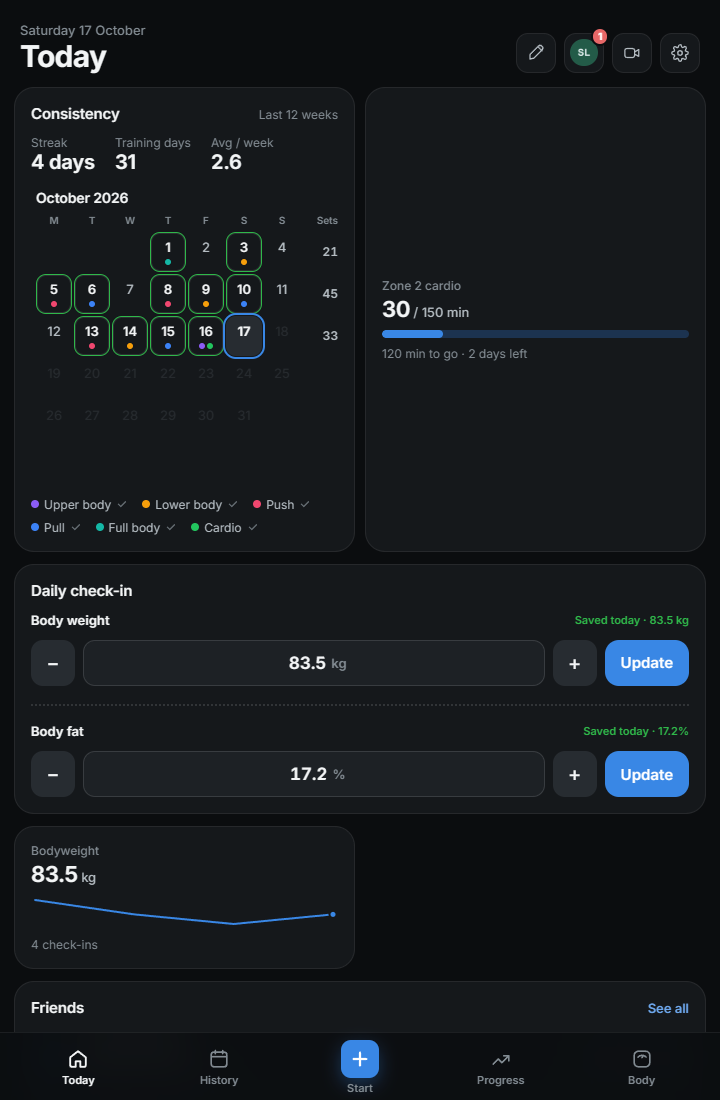
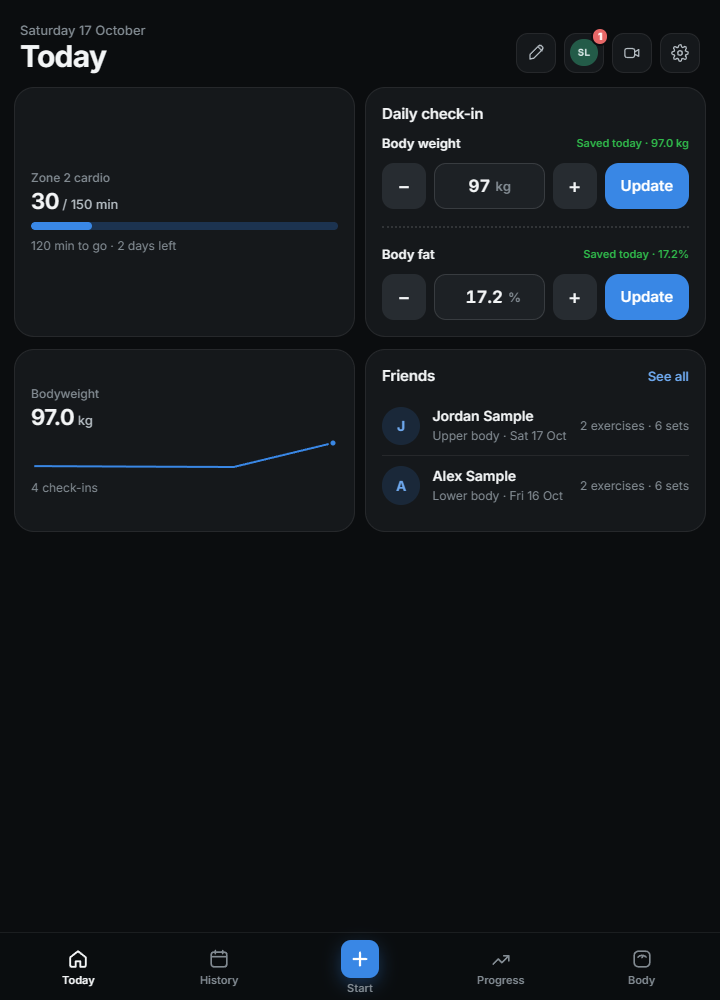
Shrink expanded Home sections when dropped into smaller spaces

diff --git a/frontend/src/HomeLayoutSections.drag.test.tsx b/frontend/src/HomeLayoutSections.drag.test.tsx
@@ -12,10 +12,10 @@ const changed = vi.fn();
 const initial: HomeLayout = {
   order: ['consistency', 'friends', 'zone2', 'bodyweight-trend'],
   hidden: [],
-  widths: { consistency: 'compact' },
+  widths: { consistency: 'compact', friends: 'full' },
 };
-function Harness() {
-  const [layout, setLayout] = useState(initial);
+function Harness({ initialLayout = initial }: { initialLayout?: HomeLayout }) {
+  const [layout, setLayout] = useState(initialLayout);
   return (
     <HomeLayoutSections
       layout={layout}
@@ -82,23 +82,51 @@ describe('Home empty-space dragging', () => {
     expect(changed.mock.lastCall![0]).toEqual({
       ...initial,
       order: ['consistency', 'zone2', 'friends', 'bodyweight-trend'],
-      widths: { consistency: 'compact', zone2: 'compact' },
+      widths: { ...initial.widths, zone2: 'compact' },
     });
     expect(container.querySelector('[data-home-drop-after="consistency"]')).toBeNull();
     expect(
       container.querySelector('[data-home-section="zone2"]')!.getAttribute('data-home-span'),
     ).toBe('3');
   });
-  it('does not offer a half-row to a full-width card', async () => {
+  it('shrinks an explicitly expanded card when dropped into a half-row', async () => {
     const handle = await begin('friends');
     pointTarget = container.querySelector('[data-home-drop-after="consistency"]');
+    await pointer(handle, 'pointermove');
+    expect(pointTarget!.classList.contains('is-drop-target')).toBe(true);
+    await pointer(handle, 'pointerup');
+    expect(changed.mock.lastCall![0]).toEqual({
+      ...initial,
+      widths: { consistency: 'compact', friends: 'compact' },
+    });
+    expect(
+      container.querySelector('[data-home-section="friends"]')!.getAttribute('data-home-span'),
+    ).toBe('3');
+    expect(container.querySelector('[data-home-drop-after="consistency"]')).toBeNull();
+  });
+  it('rejects space too narrow for the card even at its compact width', async () => {
+    await act(async () =>
+      root.render(
+        <Harness
+          key="narrow"
+          initialLayout={{
+            order: ['workouts', 'cardio-sessions', 'friends'],
+            hidden: [],
+            widths: { workouts: 'compact', 'cardio-sessions': 'compact', friends: 'full' },
+          }}
+        />,
+      ),
+    );
+    const handle = await begin('friends');
+    pointTarget = container.querySelector('[data-home-drop-after="cardio-sessions"]');
+    expect(pointTarget!.getAttribute('data-home-drop-span')).toBe('2');
     await pointer(handle, 'pointermove');
     expect(pointTarget!.classList.contains('is-drop-target')).toBe(false);
     await pointer(handle, 'pointerup');
     expect(changed).not.toHaveBeenCalled();
   });
   it('cancels a highlighted drop without changing the draft', async () => {
-    const handle = await begin('zone2');
+    const handle = await begin('friends');
     pointTarget = container.querySelector('[data-home-drop-after="consistency"]');
     await pointer(handle, 'pointermove');
     await act(async () => {

diff --git a/frontend/src/HomeLayoutSections.tsx b/frontend/src/HomeLayoutSections.tsx
@@ -76,7 +76,8 @@ export function HomeLayoutSections({
       ?.closest<HTMLElement>('[data-home-section], [data-home-drop-after]');
     const after = target?.dataset.homeDropAfter as HomeSectionId | undefined;
     const card = target?.dataset.homeSection as HomeSectionId | undefined;
-    const fits = Number(drag.card.dataset.homeSpan) <= Number(target?.dataset.homeDropSpan);
+    const compactSpan = homeSectionSpans([drag.id], { [drag.id]: 'compact' })[0];
+    const fits = compactSpan <= Number(target?.dataset.homeDropSpan);
     drag.target = after
       ? fits && after !== drag.id
         ? { id: after, empty: true }
@@ -284,7 +285,7 @@ export function HomeLayoutSections({
                 className={`home-drop-space${over === `space:${id}` ? ' is-drop-target' : ''}`}
                 aria-hidden="true"
               >
-                <span>Drop a compact section here</span>
+                <span>Drop a section here</span>
               </div>
             )}
           </Fragment>

diff --git a/docs/RELEASE-NOTES.md b/docs/RELEASE-NOTES.md
@@ -50,8 +50,9 @@
   gap at the bottom, for example **Sets per muscle** next to **Consistency** or **Daily
   check-in** next to **Recent records**.
 - While a workout is live, editing Home no longer shows a placeholder **Next workout** card.
-- In **Edit Home**, drag a compact section into an empty space beside another card.
-  Dotted drop targets highlight spaces that fit, and the moved card stays compact after saving.
+- In **Edit Home**, drag a section into an empty space beside another card. Expanded cards
+  automatically shrink to compact width when dropped into a smaller space. Dotted targets
+  highlight spaces that fit the compact card, and its new width stays after saving.
 - Profile sharing has one button under the three options: **Make my profile private**,
   **Make my profile friends only** or **Make my profile public**, matching your choice. It
   only becomes available when the choice differs from your current setting, and choosing
@@ -136,10 +137,10 @@ Unfollow button and exact relationship dates remain above the results.
 Body weight and body fat have separate controls and saved states. All screenshots use synthetic
 sample accounts in the isolated verification environment.
 
-<img src="screenshots/releases/0.6.6-home-space-drop.png" alt="Zone 2 cardio moved into the space beside compact Consistency, with green Saved today summaries on the Daily check-in below." width="720">
+<img src="screenshots/releases/0.6.6-home-space-drop.png" alt="Previously expanded Friends card shrunk into the half-row beside Bodyweight trend, with green Saved today summaries above." width="720">
 
-Drag a compact section into the dotted empty space in Edit Home, then save to keep it beside
-the existing card. The moved section retains its compact width.
+Drag a section into the dotted empty space in Edit Home, then save to keep it beside the existing
+card. Expanded sections shrink to fit the smaller space and retain their compact width.
 
 ## 0.6.5
 
